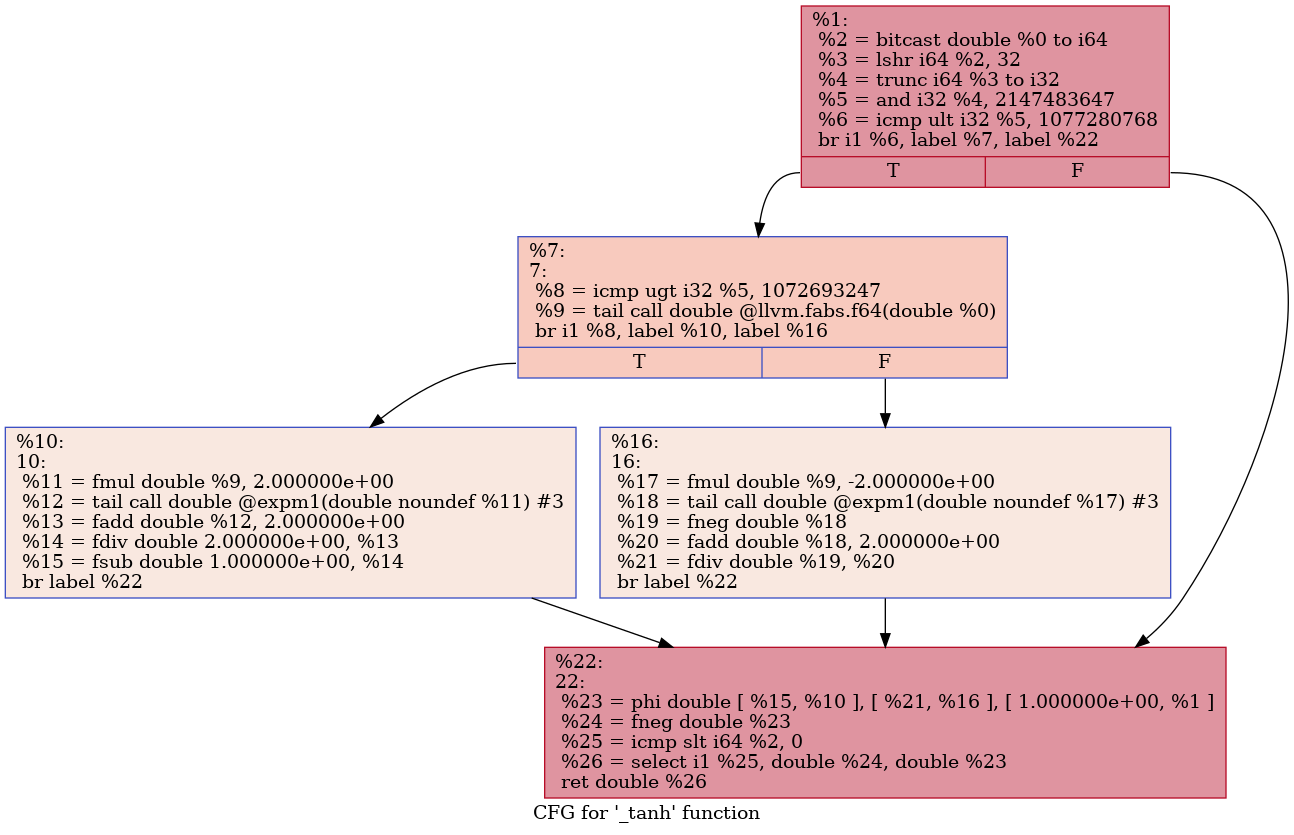
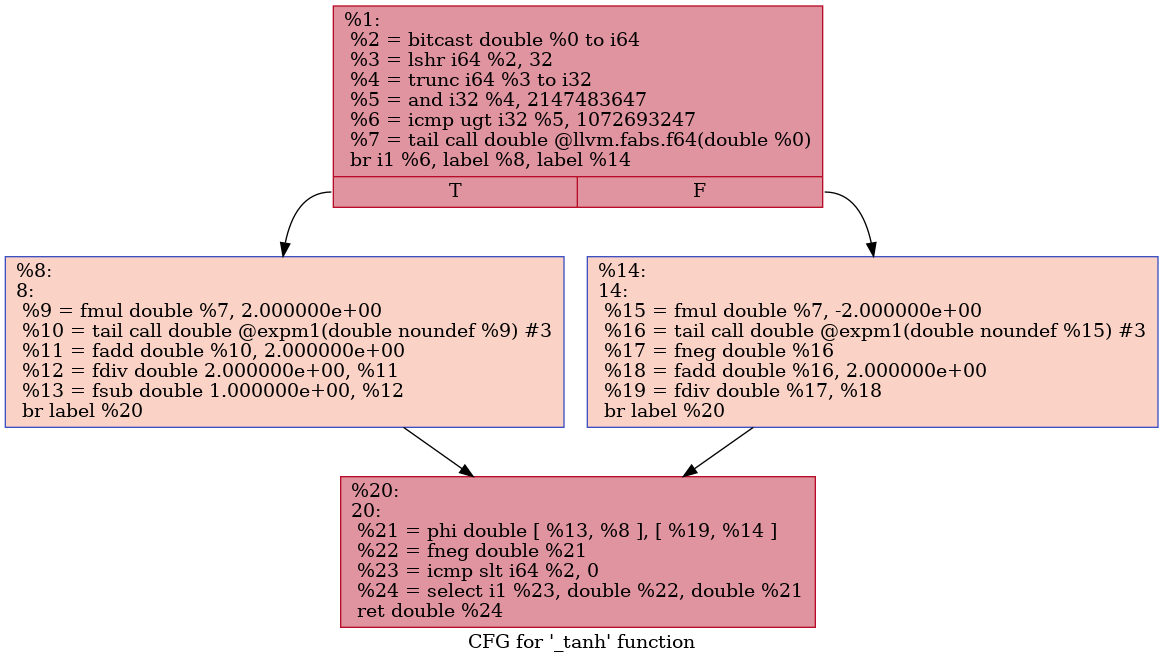
update Unreachable pass

diff --git a/src/Unreachable.cpp b/src/Unreachable.cpp
@@ -104,8 +104,41 @@ int isIEEESpecialValBranch(llvm::BasicBlock* BB, llvm::ICmpInst *I) {
   return 0;
 }
 
+
+double highXtoDouble(uint32_t val) {
+  uint64_t tmp = (static_cast<uint64_t>(val) << 32);  // low word assumed to be 0
+  double res;
+  std::memcpy(&res, &tmp, sizeof(res));
+  return res;
+}
+
+// x in range : _min < x < _max
+int checkValidRange(llvm::ICmpInst *I) {
+  using Pred = llvm::ICmpInst::Predicate;
+
+  Value *RHS = I->getOperand(1);
+
+  if (auto *CI = llvm::dyn_cast<llvm::ConstantInt>(RHS)) {
+    int32_t sVal = CI->getSExtValue();
+    double dVal = highXtoDouble(sVal);
+
+    Pred pred = I->getPredicate();
+    if (ICmpInst::isLT(pred) || ICmpInst::isLE(pred)) {
+      // |x| < dVal
+      if (dVal <= _min) return 0;     // always false
+      if (dVal > _max) return 1;      // always true
+    } else if (ICmpInst::isGT(pred) || ICmpInst::isGE(pred)) {
+      // |x| > dVal
+      if (dVal >= _max) return 0;     // always false
+      if (dVal < _min) return 1;      // always true
+    }
+  }
+
+  return -1; // both can be valid
+}
+
 PreservedAnalyses Unreachable::run(llvm::Function &Func,
-                                      llvm::FunctionAnalysisManager &) {
+                                      llvm::FunctionAnalysisManager &FM) {
   bool modified = false;
 
   for (auto &BB : Func) {
@@ -122,15 +155,35 @@ PreservedAnalyses Unreachable::run(llvm::Function &Func,
         case 3:
           brInst->setSuccessor(0, brInst->getSuccessor(1)); // always false
           modified = true;
-          errs() << "remove tag = " << tag << "\n";
+          continue;
         default:
           break;
       }
 
       // 2) check if the branch indicates unreachable path
-      // if (isHighAbsX(I->getOperand(0))) {
+      int isValid = checkValidRange(ICmp);
+      if (isValid == 0 || isValid == 1) {
+        BasicBlock *BBParent = brInst->getParent();
 
-      // }
+        unsigned removeIdx = isValid == 0 ? 0 : 1; // which successor is unreachable
+        unsigned keepIdx   = 1 - removeIdx;
+
+        BasicBlock *deadSucc = brInst->getSuccessor(removeIdx);
+        BasicBlock *liveSucc = brInst->getSuccessor(keepIdx);
+
+        // Redirect branch to always go to the live successor
+        brInst->setSuccessor(0, liveSucc);
+        brInst->setSuccessor(1, liveSucc);
+
+        // Update all phi nodes in the dead successor
+        for (Instruction &I : *deadSucc) {
+          if (auto *phi = dyn_cast<PHINode>(&I)) {
+            phi->removeIncomingValue(BBParent, false); // DeletePHIIfEmpty
+          }
+        }
+
+        modified = true;
+      }
     }
   }
 

diff --git a/include/Unreachable.h b/include/Unreachable.h
@@ -30,15 +30,7 @@ struct Unreachable : public llvm::PassInfoMixin<Unreachable> {
     public:
         explicit Unreachable(llvm::raw_ostream &OutS) : OS(OutS) {}
         
-        uint32_t getConstantVal(llvm::Value* val);
-        llvm::Value* getOperandFromCondition(llvm::Value* Cond, size_t pos);
-        bool isConditionHighwordofInput(llvm::Value* Cond);
-
-        bool isSpecialBranch(llvm::BasicBlock* BB, llvm::BranchInst *brInst);
-        bool isSubNormalBranch(llvm::BasicBlock* BB, llvm::BranchInst *brInst);
-        bool isExactZero(llvm::BasicBlock* BB, llvm::BranchInst *brInst);
-
-        llvm::PreservedAnalyses run(llvm::Function &F, llvm::FunctionAnalysisManager &);
+        llvm::PreservedAnalyses run(llvm::Function &F, llvm::FunctionAnalysisManager &FM);
 
         static bool isRequired() { return true; }
 

diff --git a/README.md b/README.md
@@ -1,7 +1,12 @@
 SLOTHE : Lazy Approximation of Non-Arithmetic Neural Network Functions over Encrypted Data
 =========
 
-based on **LLVM 16**
+
+## Requirements
+```
+llvm 16
+cmake >= 3.20
+```
 
 ### Build (We assume that llvm16 is installed at /usr/local)
 ```bash
